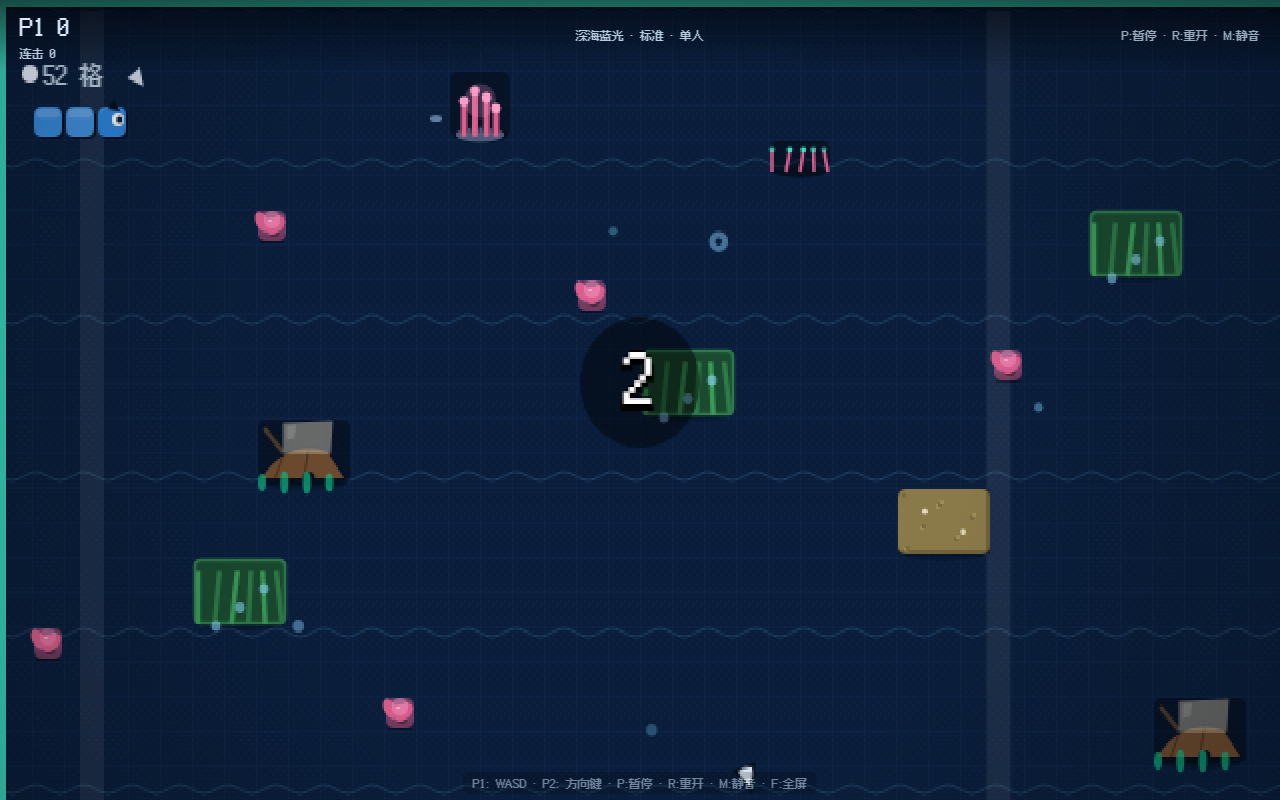
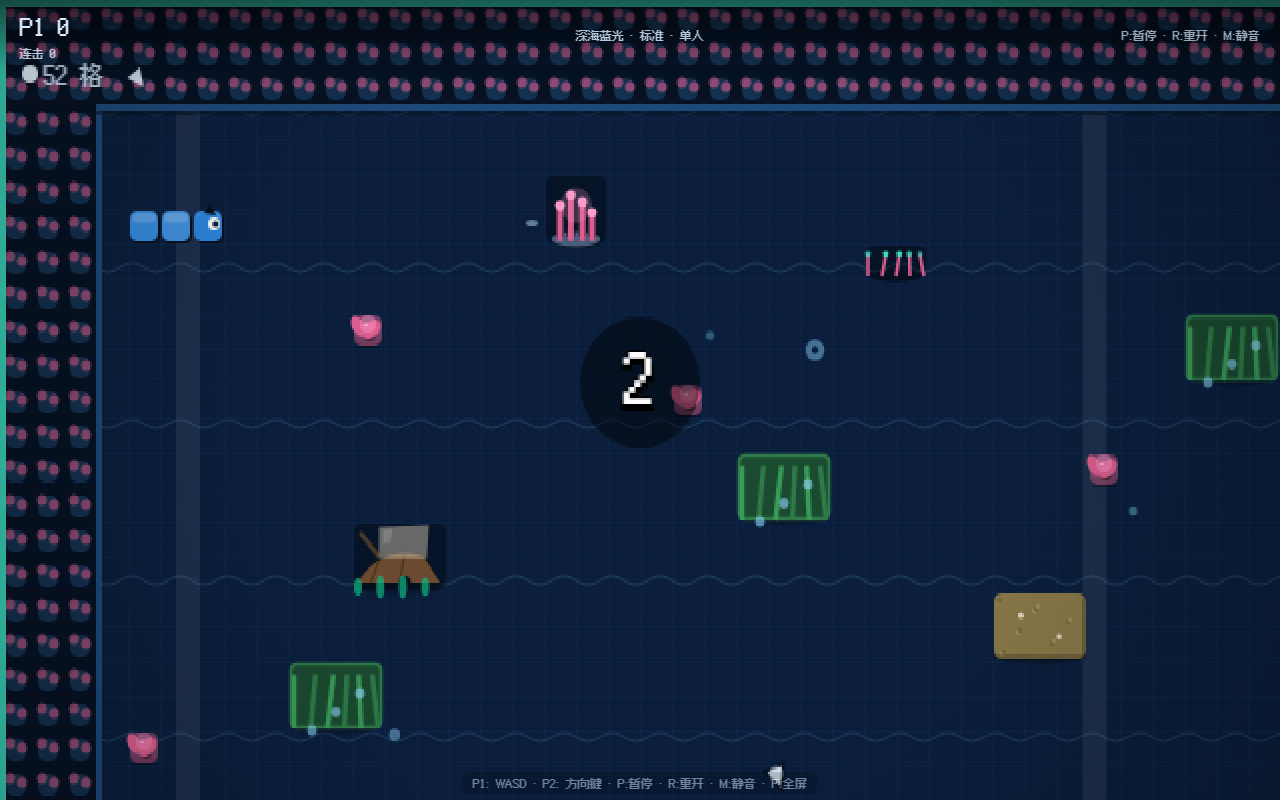
fix: 左/上边界带不可见（clamp负偏移）+ 蛇尾错位（插值起点用上一帧位置）

diff --git a/src/render/renderer.ts b/src/render/renderer.ts
@@ -18,7 +18,10 @@ const DIR_ANGLE: Record<Direction, number> = { right: 0, down: Math.PI / 2, left
 
 /** 蛇插值状态（渲染层私有） */
 interface SnakeAnim {
-  prevBody: Cell[]
+  /** 插值起点（移动前位置；插值完成前保持，docs/13 修复尾巴错位） */
+  startPos: Cell[]
+  /** 上一帧位置（移动判定与起点来源） */
+  lastPos: Cell[]
   t: number
   angle: number
   scale: number // 死亡/复活动画
@@ -169,7 +172,8 @@ export class Renderer {
       return { x: tx - this.viewW * CELL / 2, y: ty - this.viewH * CELL / 2 }
     }
     const target = follow()
-    const cam = clampCam(target.x, target.y, mapPxW, mapPxH, this.viewW, this.viewH)
+    // 相机 clamp：允许滚入边界带（负偏移 -3 格，docs/13 修复左/上边界不可见）
+    const cam = clampCam(target.x, target.y, mapPxW, mapPxH, this.viewW, this.viewH, -3 * CELL, -3 * CELL)
     // 相机快速同步（dt*10）：缩放期间减少与视野变化的相位差（docs/13 震动修复）
     this.camX += (cam.x - this.camX) * Math.min(1, dt * 10)
     this.camY += (cam.y - this.camY) * Math.min(1, dt * 10)
@@ -262,7 +266,7 @@ export class Renderer {
     }
   }
 
-  /** 地图边界线：视野贴地图边缘时在对应视野边缘画亮线（docs/13 第 1 点） */
+  /** 地图边界线：视野贴世界外沿（含边界带）时在对应视野边缘画亮线（docs/13） */
   private drawMapBorder(
     ctx: CanvasRenderingContext2D,
     theme: Theme,
@@ -270,17 +274,19 @@ export class Renderer {
   ): void {
     const vw = this.canvas.width
     const vh = this.canvas.height
-    // 世界范围（地图 + 3 格边界带，docs/13 第 1 点）
-    const mapPxW = (map.grid.w + 6) * CELL
-    const mapPxH = (map.grid.h + 6) * CELL
+    // 世界范围：地图 + 左右各 3 格边界带（docs/13）
+    const leftEdge = -3 * CELL
+    const topEdge = -3 * CELL
+    const rightEdge = (map.grid.w + 3) * CELL
+    const bottomEdge = (map.grid.h + 3) * CELL
     ctx.strokeStyle = theme.palette.accent
     ctx.lineWidth = 3
     ctx.globalAlpha = 0.9
     ctx.beginPath()
-    if (this.camX <= 1) { ctx.moveTo(1.5, 0); ctx.lineTo(1.5, vh) }
-    if (this.camX + vw >= mapPxW - 1) { ctx.moveTo(vw - 1.5, 0); ctx.lineTo(vw - 1.5, vh) }
-    if (this.camY <= 1) { ctx.moveTo(0, 1.5); ctx.lineTo(vw, 1.5) }
-    if (this.camY + vh >= mapPxH - 1) { ctx.moveTo(0, vh - 1.5); ctx.lineTo(vw, vh - 1.5) }
+    if (this.camX <= leftEdge + 1) { const x = leftEdge - this.camX + 1.5; ctx.moveTo(x, 0); ctx.lineTo(x, vh) }
+    if (this.camX + vw >= rightEdge - 1) { const x = rightEdge - this.camX - 1.5; ctx.moveTo(x, 0); ctx.lineTo(x, vh) }
+    if (this.camY <= topEdge + 1) { const y = topEdge - this.camY + 1.5; ctx.moveTo(0, y); ctx.lineTo(vw, y) }
+    if (this.camY + vh >= bottomEdge - 1) { const y = bottomEdge - this.camY - 1.5; ctx.moveTo(0, y); ctx.lineTo(vw, y) }
     ctx.stroke()
     ctx.globalAlpha = 1
   }
@@ -446,21 +452,29 @@ export class Renderer {
   ): void {
     let anim = this.snakeAnims.get(snake.player)
     if (!anim) {
-      anim = { prevBody: snake.body.map((c) => ({ ...c })), t: 1, angle: DIR_ANGLE[snake.dir], scale: 1 }
+      const body = snake.body.map((c) => ({ ...c }))
+      anim = { startPos: body, lastPos: body, t: 1, angle: DIR_ANGLE[snake.dir], scale: 1 }
       this.snakeAnims.set(snake.player, anim)
     }
 
-    // 插值推进（docs/05 1.1：两格间滑动；docs/13 修复：prevBody 插值完成前保持旧位置）
+    // 插值推进（docs/05 1.1：两格间滑动）
+    // 起点 = 移动前位置（lastPos），插值完成前保持；二次移动时起点 = 上次移动后位置（docs/13 修复尾巴错位）
     const cur = snake.body
-    const moved = anim.prevBody.length > 0 &&
-      (cur[0].x !== anim.prevBody[0].x || cur[0].y !== anim.prevBody[0].y)
+    const moved = anim.lastPos.length > 0 &&
+      (cur[0].x !== anim.lastPos[0].x || cur[0].y !== anim.lastPos[0].y)
     if (moved) {
+      anim.startPos = anim.lastPos // 起点 = 移动前位置
       anim.t = 0
-    } else if (snake.phase !== "ghost") {
+    } else if (anim.t < 1 && snake.phase !== "ghost") {
       // 插值周期 = 引擎实际移动间隔（含加速，docs/13 与引擎同步）
       const interval = view.moveInterval > 0 ? view.moveInterval : 1 / DIFFICULTY_PRESETS[view.difficulty].initialSpeed
       anim.t = Math.min(1, anim.t + dt / interval)
+      if (anim.t >= 1) anim.startPos = cur // 插值完成 → 同步起点
+    } else {
+      anim.startPos = cur // 空闲/幽灵：起点跟随
     }
+    // 帧尾：记录上一帧位置（移动判定与下次移动的起点）
+    anim.lastPos = cur.map((c) => ({ ...c }))
     // 头朝向平滑（docs/05 1.1）
     const target = DIR_ANGLE[snake.dir]
     let diff = target - anim.angle
@@ -488,7 +502,7 @@ export class Renderer {
     ctx.save()
     ctx.globalAlpha = alpha
     for (let i = len - 1; i >= 0; i--) {
-      const start = anim.prevBody[i] ?? cur[i]
+      const start = anim.startPos[i] ?? cur[i]
       const px = (start.x + (cur[i].x - start.x) * ease) * CELL + CELL / 2
       const py = (start.y + (cur[i].y - start.y) * ease) * CELL + CELL / 2 - (i === 0 ? lift : 0)
       ctx.fillStyle = outline
@@ -513,11 +527,6 @@ export class Renderer {
     const hpy = (headPos.y + (cur[0].y - headPos.y) * ease) * CELL + CELL / 2 - lift
     this.drawHead(ctx, theme.snakeStyle.head, hpx, hpy, anim.angle, color, outline, t, u)
     ctx.restore()
-
-    // 帧尾：插值完成后才同步 prevBody（docs/13 修复"跳格"：移动后旧位置保持为插值起点）
-    if (anim.t >= 1 && !moved) {
-      anim.prevBody = cur.map((c) => ({ ...c }))
-    }
   }
 
   private drawPattern(

diff --git a/src/render/camera.ts b/src/render/camera.ts
@@ -60,7 +60,7 @@ export function centerOffset(
   }
 }
 
-/** 相机边界 clamp（视野不超出地图；viewW/viewH 为当前视野格数，docs/13 修复） */
+/** 相机边界 clamp（视野不超出世界；minX/minY 支持负偏移——边界带，docs/13 修复） */
 export function clampCam(
   camX: number,
   camY: number,
@@ -68,12 +68,14 @@ export function clampCam(
   mapPxH: number,
   viewW = VIEW_W,
   viewH = VIEW_H,
+  minX = 0,
+  minY = 0,
 ): { x: number; y: number } {
-  const maxX = Math.max(0, mapPxW - viewW * CELL)
-  const maxY = Math.max(0, mapPxH - viewH * CELL)
+  const maxX = Math.max(minX, mapPxW - viewW * CELL)
+  const maxY = Math.max(minY, mapPxH - viewH * CELL)
   return {
-    x: Math.min(Math.max(0, camX), maxX),
-    y: Math.min(Math.max(0, camY), maxY),
+    x: Math.min(Math.max(minX, camX), maxX),
+    y: Math.min(Math.max(minY, camY), maxY),
   }
 }
 
